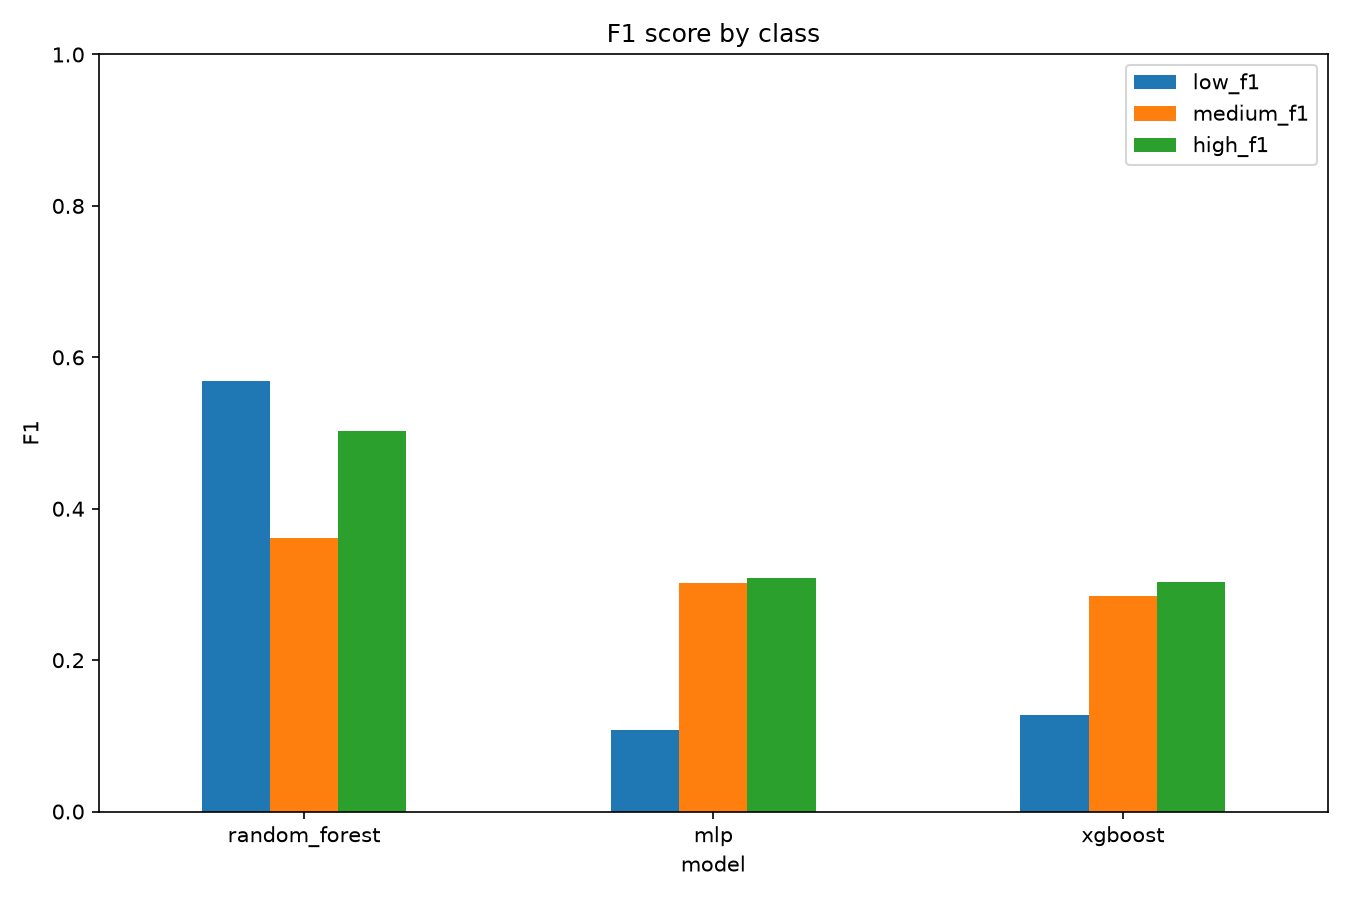
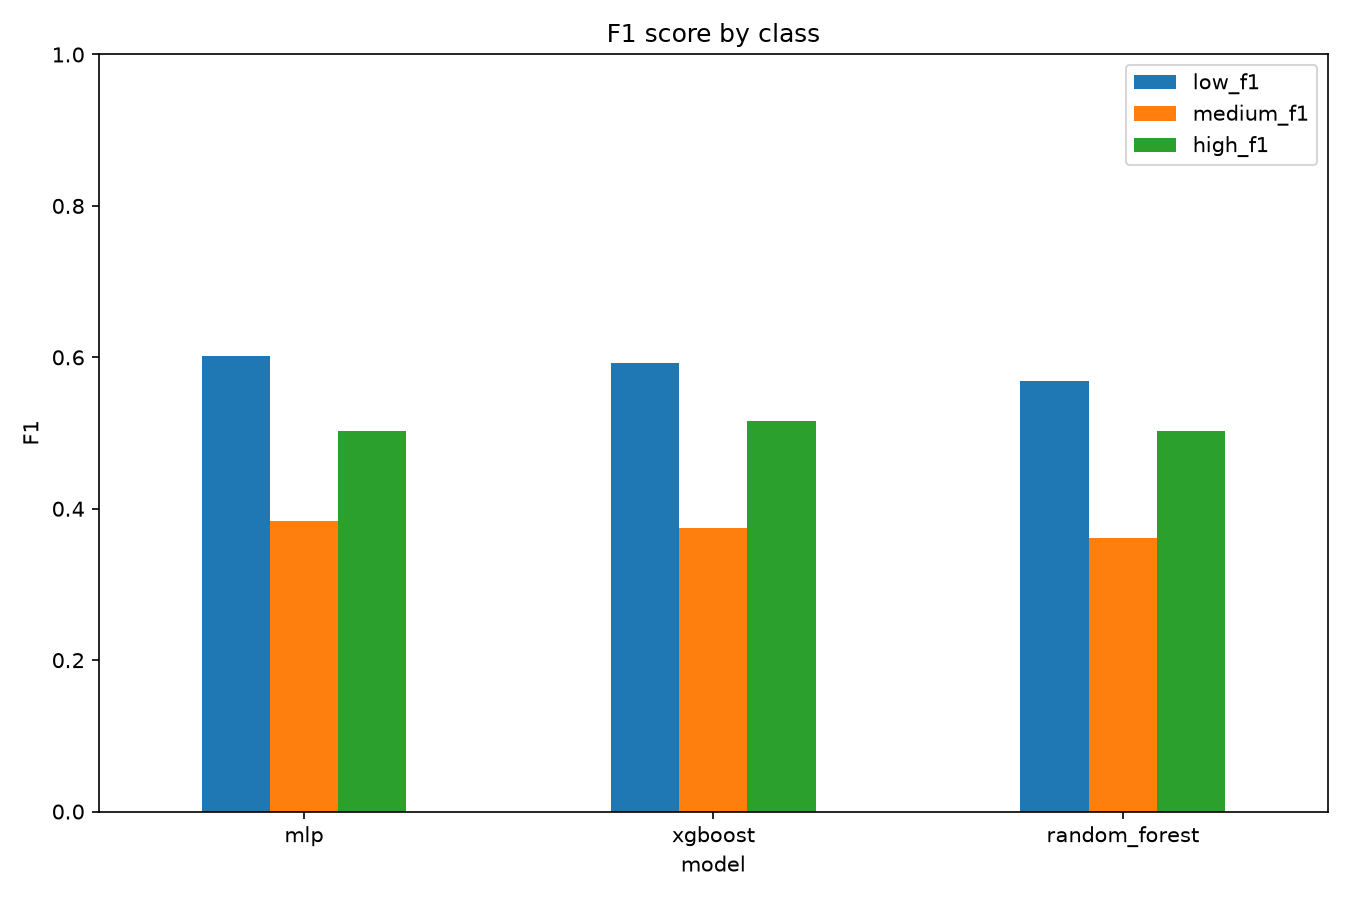
P4 results uploaded

diff --git a/src/results_p4.py b/src/results_p4.py
@@ -305,27 +305,110 @@ def _get_test_indices(
 # PREDICTION LABEL NORMALIZATION
 # =============================================================================
 #
-# RandomForestClassifier and MLPClassifier both accept string y directly
-# and predict strings back (confirmed empirically). XGBClassifier does
-# NOT accept string y -- it raises ValueError: "Invalid classes inferred
-# from unique values of y" (confirmed empirically against this exact
-# CLASS_ORDER) -- so a working P4 XGBoost run necessarily used an integer
-# encoding of performance_class, and will predict integers back.
+# RandomForestClassifier was fit on the raw string labels directly and
+# predicts strings back -- confirmed empirically, and it never touches
+# the numeric-decoding branch below at all, so nothing here can affect it.
 #
-# ASSUMPTION THAT NEEDS YOUR CONFIRMATION: the mapping below assumes the
-# encoding matches CLASS_ORDER's position (low=0, medium=1, high=2) --
-# the natural ordinal reading, and the same convention results_p1.py uses
-# for its own CLASS_ORDER-indexed labels. If you encoded it differently
-# when training (e.g. alphabetically via a bare LabelEncoder, which would
-# give high=0, low=1, medium=2), change CLASS_ORDER's order to match, or
-# this will silently mislabel every XGBoost prediction -- it won't crash,
-# it'll just be wrong.
-# =============================================================================
+# XGBClassifier does NOT accept string y -- it raises ValueError:
+# "Invalid classes inferred from unique values of y" (confirmed
+# empirically). MLP was ALSO fit on LabelEncoder-encoded integers in this
+# project's actual training pipeline (confirmed against this project's
+# own MLflow metrics: XGBoost/MLP's training-time accuracy only matches
+# results_p4.py's output once decoded with the mapping below, not the
+# CLASS_ORDER-indexed one this file used previously). Both predict
+# integers back, and BOTH need decoding through the SAME mapping a bare
+# sklearn LabelEncoder actually produces.
+#
+# LabelEncoder.fit() sorts unique classes LEXICOGRAPHICALLY before
+# assigning 0, 1, 2, ... -- confirmed directly:
+#   LabelEncoder().fit(["high","low","medium"]).classes_
+#   -> array(['high', 'low', 'medium'])   # alphabetical, i.e. high=0, low=1, medium=2
+#
+# This is DELIBERATELY kept separate from CLASS_ORDER, which stays
+# ["low", "medium", "high"] everywhere else in this file (confusion
+# matrix axes, plots, CSV/JSON column order) -- only the numeric decode
+# step below needs the alphabetical mapping, because that's what the
+# encoder actually produced, not a display preference to match.
+LABEL_ENCODER_CLASS_ORDER = sorted(CLASS_ORDER)
+
+
+def _find_label_encoder_classes(run_id: str) -> Optional[List[str]]:
+    """
+    Best-effort recovery of the true class order from the run itself,
+    tried BEFORE falling back to LABEL_ENCODER_CLASS_ORDER below: once a
+    model is fit on bare integers, the fitted object itself retains no
+    trace of the original strings at all (confirmed empirically --
+    XGBClassifier/MLPClassifier.classes_ shows [0, 1, 2], nothing else on
+    the object references them either), so this can only ever come from
+    something logged separately alongside the run -- a param recording
+    the mapping, or a saved LabelEncoder/classes artifact. If nothing
+    like that is logged, returns None, which is the expected outcome
+    here: LABEL_ENCODER_CLASS_ORDER is the actual, correct mapping for
+    this project's models, not a guess to be replaced once something
+    better is found.
+    """
+
+    client = MlflowClient()
+
+    try:
+        run = client.get_run(run_id)
+    except Exception:
+        return None
+
+    param_candidates = (
+        "label_encoder_classes", "le_classes", "class_order",
+        "classes_", "label_classes", "encoder_classes",
+    )
+
+    for key, value in run.data.params.items():
+        if key.lower() in param_candidates:
+            try:
+                parsed = json.loads(value.replace("'", '"'))
+                if isinstance(parsed, list) and set(parsed) == set(CLASS_ORDER):
+                    print(f"    Recovered class order from run param '{key}': {parsed}")
+                    return parsed
+            except Exception:
+                pass
+
+    try:
+        artifacts = client.list_artifacts(run_id)
+    except Exception:
+        artifacts = []
+
+    artifact_name_hints = ("label_encoder", "labelencoder", "classes")
+
+    for artifact in artifacts:
+        name_lower = artifact.path.lower()
+        if any(hint in name_lower for hint in artifact_name_hints):
+            try:
+                local_path = mlflow.artifacts.download_artifacts(
+                    run_id=run_id, artifact_path=artifact.path
+                )
+                if local_path.endswith((".pkl", ".pickle")):
+                    with open(local_path, "rb") as f:
+                        obj = pickle.load(f)
+                    classes = list(getattr(obj, "classes_", obj))
+                elif local_path.endswith(".json"):
+                    with open(local_path) as f:
+                        classes = json.load(f)
+                else:
+                    continue
+                if set(classes) == set(CLASS_ORDER):
+                    print(f"    Recovered class order from artifact '{artifact.path}': {classes}")
+                    return list(classes)
+            except Exception:
+                pass
+
+    return None
+
 
 def _normalize_predictions(
     y_pred: Any,
     model_name: str = "",
+    numeric_class_order: Optional[List[str]] = None,
 ) -> np.ndarray:
+
+    class_order_for_numeric = numeric_class_order or LABEL_ENCODER_CLASS_ORDER
 
     y_pred = np.asarray(y_pred).ravel()
 
@@ -344,8 +427,8 @@ def _normalize_predictions(
 
             try:
                 numeric_value = int(value)
-                if 0 <= numeric_value < len(CLASS_ORDER):
-                    normalized.append(CLASS_ORDER[numeric_value])
+                if 0 <= numeric_value < len(class_order_for_numeric):
+                    normalized.append(class_order_for_numeric[numeric_value])
                     continue
             except (ValueError, TypeError):
                 pass
@@ -353,7 +436,7 @@ def _normalize_predictions(
             raise ValueError(
                 f"Unknown prediction label from {model_name!r}: "
                 f"{value!r}. Expected one of {CLASS_ORDER} or "
-                f"numeric labels 0-{len(CLASS_ORDER) - 1}."
+                f"numeric labels 0-{len(class_order_for_numeric) - 1}."
             )
 
         return np.asarray(normalized, dtype=str)
@@ -364,7 +447,7 @@ def _normalize_predictions(
 
         invalid = (
             (numeric_predictions < 0)
-            | (numeric_predictions >= len(CLASS_ORDER))
+            | (numeric_predictions >= len(class_order_for_numeric))
         )
 
         if invalid.any():
@@ -372,11 +455,11 @@ def _normalize_predictions(
                 f"Unknown numeric prediction labels from "
                 f"{model_name!r}: "
                 f"{np.unique(numeric_predictions[invalid]).tolist()}. "
-                f"Expected labels 0-{len(CLASS_ORDER) - 1}."
+                f"Expected labels 0-{len(class_order_for_numeric) - 1}."
             )
 
         return np.asarray(
-            [CLASS_ORDER[int(value)] for value in numeric_predictions],
+            [class_order_for_numeric[int(value)] for value in numeric_predictions],
             dtype=str,
         )
 
@@ -945,14 +1028,6 @@ def _extract_metrics(
     if y_proba is not None and proba_classes is not None:
 
         try:
-            # roc_auc_score(multi_class="ovr") and log_loss both require
-            # `labels` in lexicographic order specifically (confirmed
-            # empirically -- roc_auc_score raises "Parameter 'labels'
-            # must be ordered" otherwise; log_loss silently assumes it
-            # even when it doesn't raise). CLASS_ORDER itself stays
-            # ["low","medium","high"] everywhere else in this file --
-            # only these two sklearn calls need the alphabetical variant,
-            # so it's built here rather than changing CLASS_ORDER itself.
             sorted_classes = sorted(CLASS_ORDER)
 
             column_for_class = {
@@ -1249,6 +1324,7 @@ def _evaluate_model(
     model_name: str,
     X_test: pd.DataFrame,
     y_test: np.ndarray,
+    numeric_class_order: Optional[List[str]] = None,
 ) -> Tuple[Dict[str, float], np.ndarray]:
 
     print(f"\nEvaluating {model_name}...")
@@ -1267,6 +1343,7 @@ def _evaluate_model(
     y_pred = _normalize_predictions(
         y_pred_raw,
         model_name=model_name,
+        numeric_class_order=numeric_class_order,
     )
 
     y_true = np.asarray(y_test).ravel().astype(str)
@@ -1290,6 +1367,7 @@ def _evaluate_model(
                     _normalize_predictions(
                         np.asarray(raw_classes),
                         model_name=f"{model_name} classes_",
+                        numeric_class_order=numeric_class_order,
                     )
                 )
 
@@ -1414,6 +1492,13 @@ def main() -> None:
 
     feature_importance_records: Dict[str, pd.Series] = {}
 
+    # Models that were fit on LabelEncoder-encoded integers, per this
+    # project's actual training pipeline (confirmed -- see
+    # LABEL_ENCODER_CLASS_ORDER's docstring above). random_forest is
+    # deliberately absent: it predicts strings natively and never uses
+    # numeric_class_order at all.
+    LABEL_ENCODED_MODELS = {"xgboost", "mlp"}
+
     for model_key, run_id in MODEL_RUN_IDS.items():
 
         if run_id is None:
@@ -1455,6 +1540,21 @@ def main() -> None:
         if importance is not None:
             feature_importance_records[model_key] = importance
 
+        numeric_class_order = None
+
+        if model_key in LABEL_ENCODED_MODELS:
+
+            numeric_class_order = _find_label_encoder_classes(run_id)
+
+            if numeric_class_order is None:
+                numeric_class_order = LABEL_ENCODER_CLASS_ORDER
+                print(
+                    f"    No logged label-encoder mapping found for "
+                    f"{model_key} -- using the confirmed training-time "
+                    f"mapping LABEL_ENCODER_CLASS_ORDER = "
+                    f"{LABEL_ENCODER_CLASS_ORDER}"
+                )
+
         try:
             metrics, y_pred = _evaluate_model(
                 model_key=model_key,
@@ -1462,6 +1562,7 @@ def main() -> None:
                 model_name=model_key,
                 X_test=X_test,
                 y_test=y_test,
+                numeric_class_order=numeric_class_order,
             )
 
         except Exception as exc:
